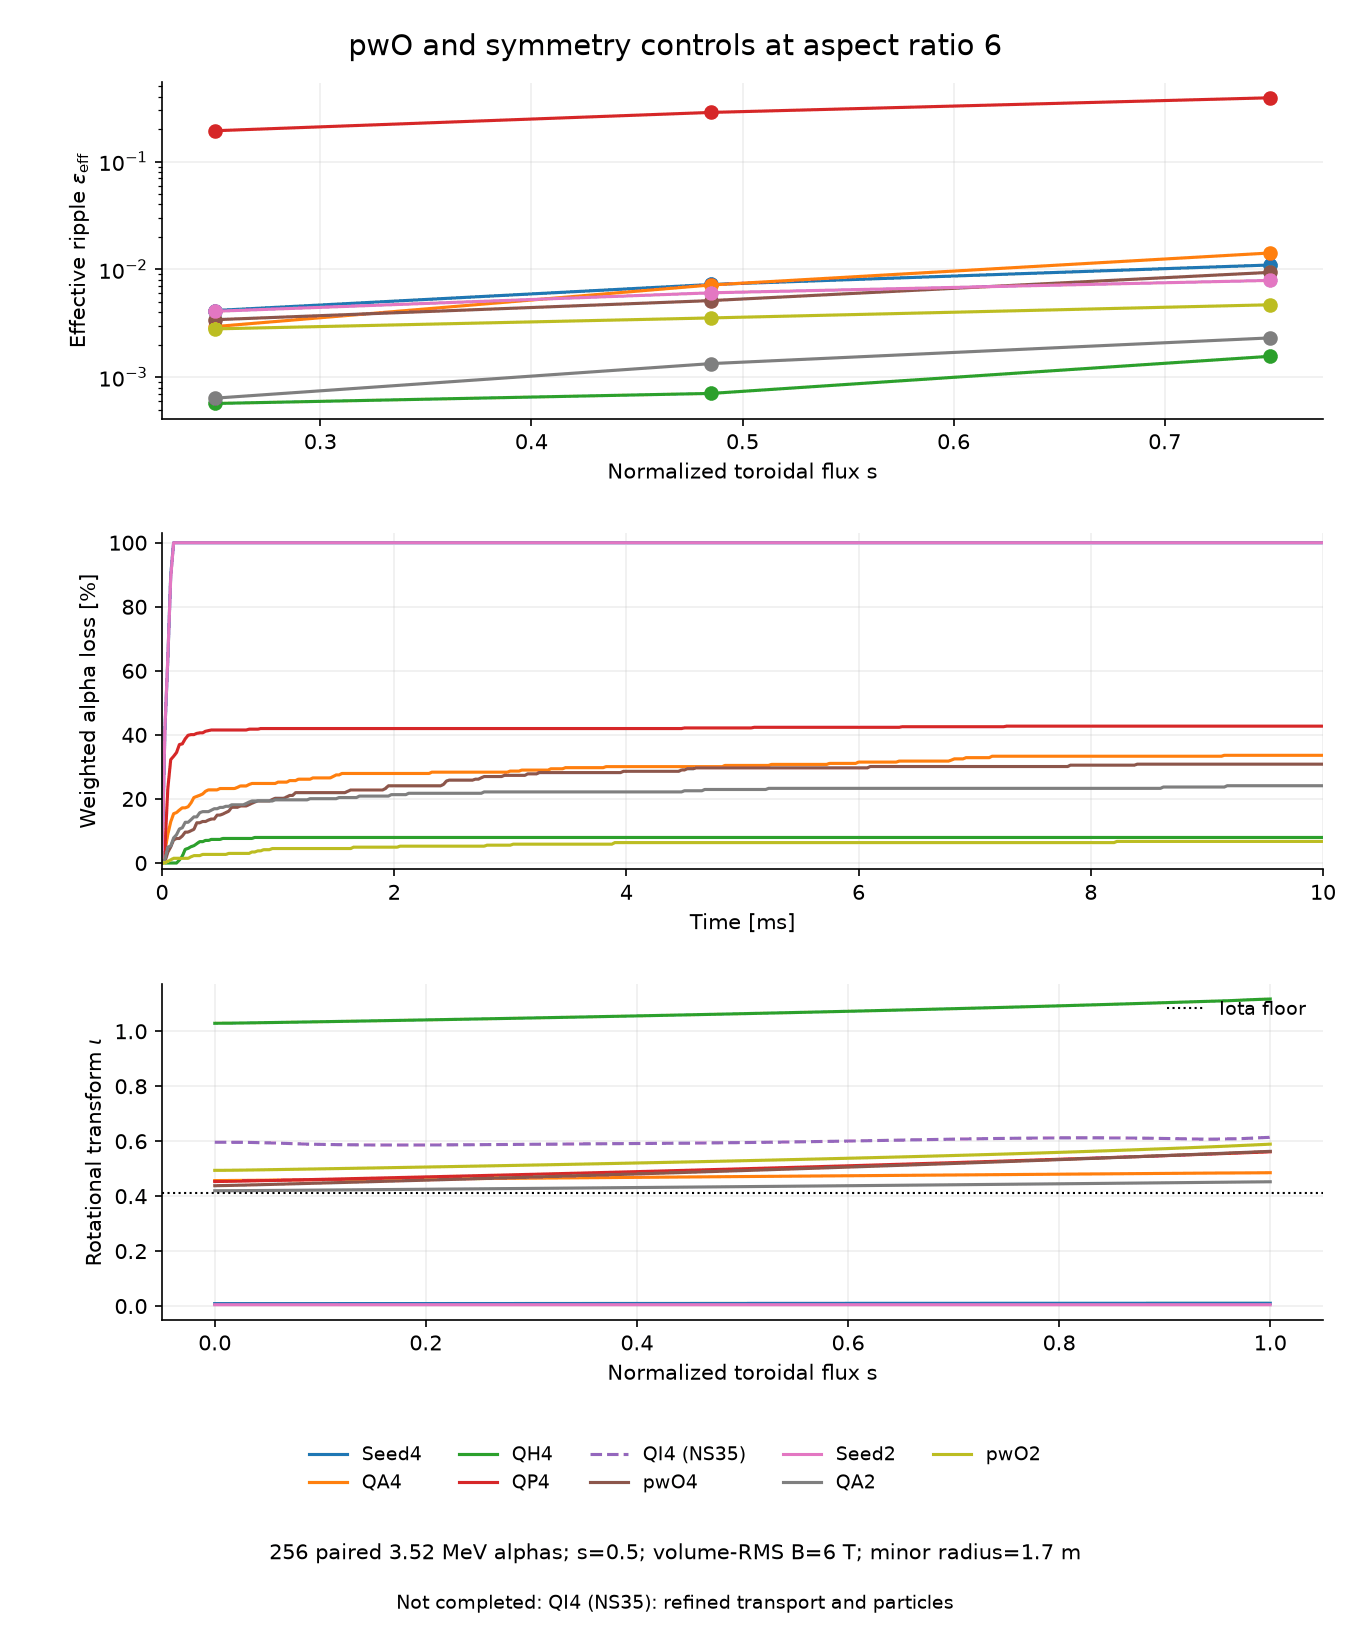
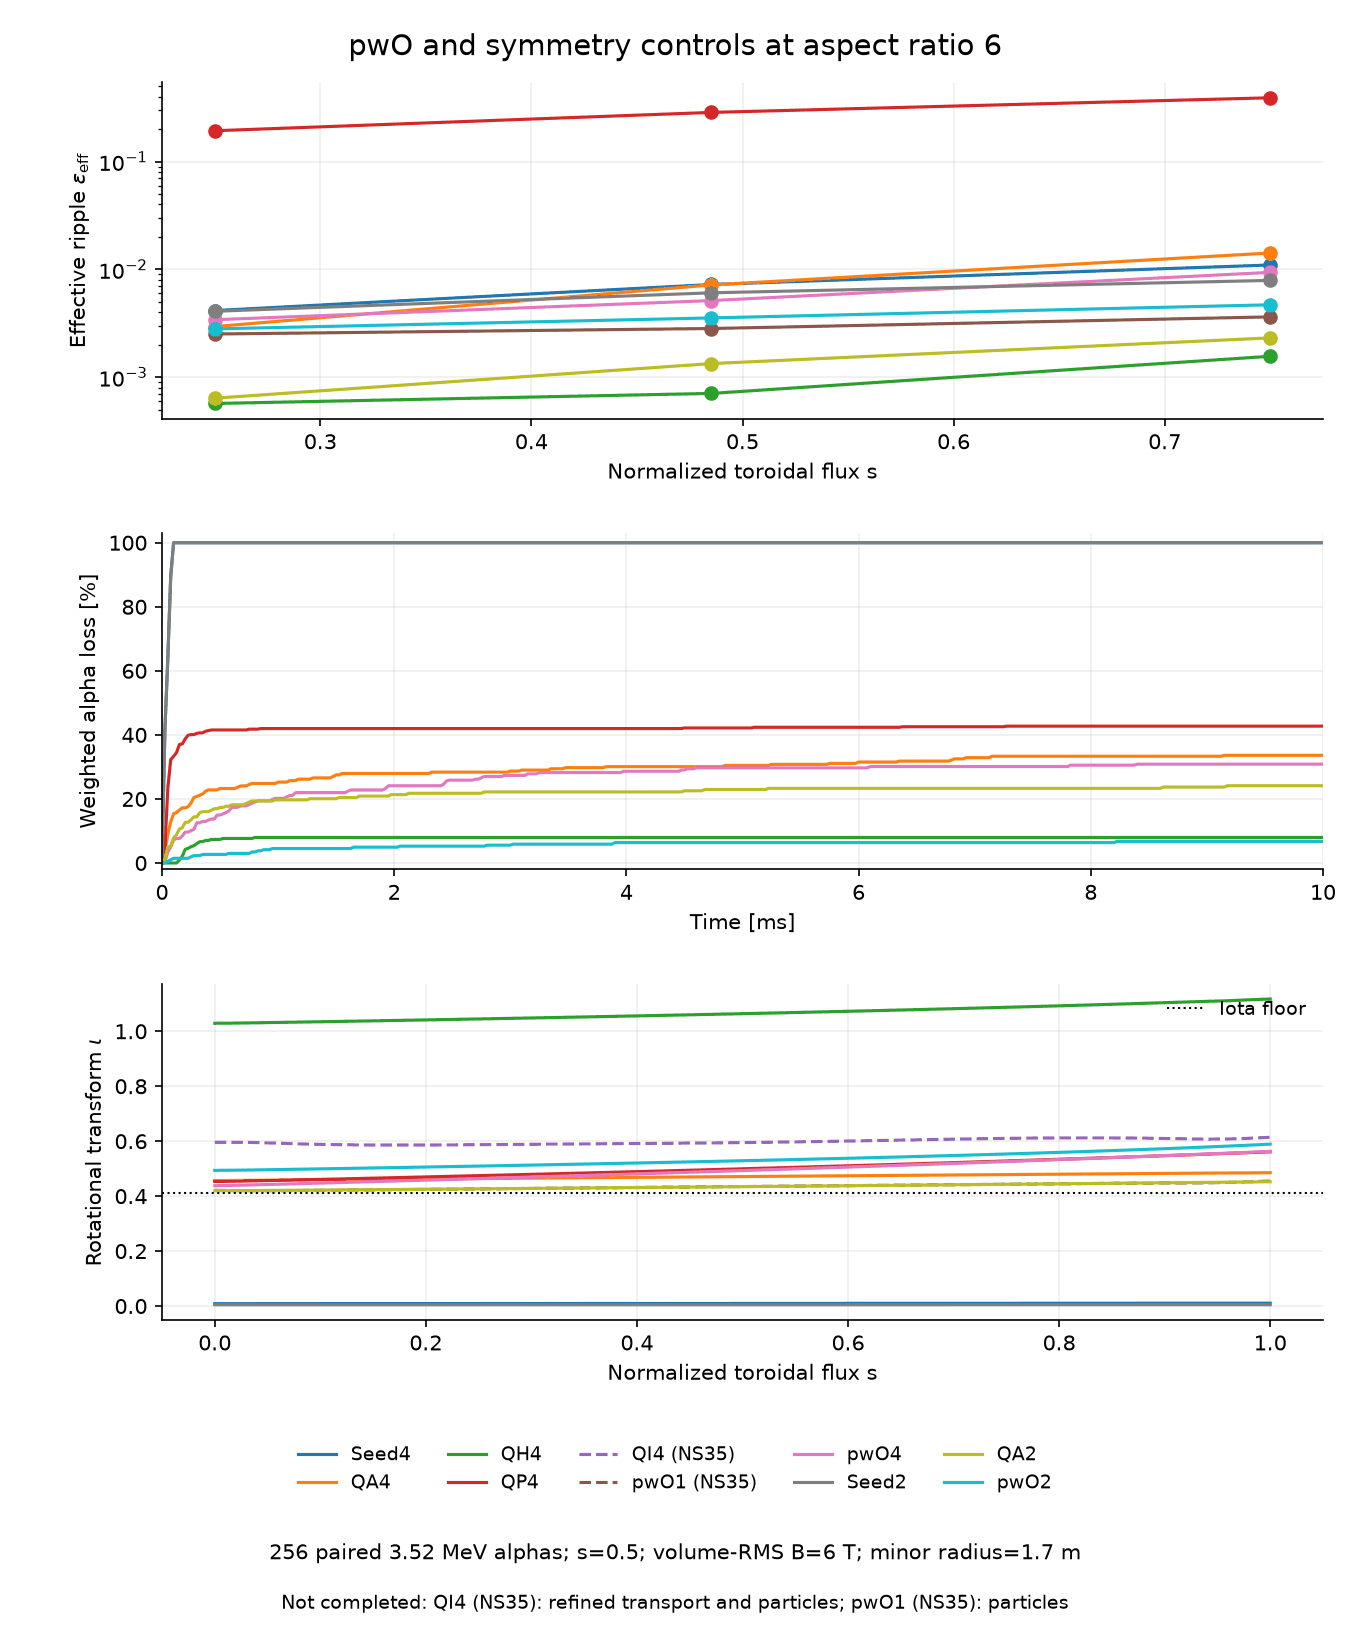
Record the one-period QA-to-pwO construction and transport backtracking

diff --git a/docs/_static/figures/sources/make_low_transport_figure.py b/docs/_static/figures/sources/make_low_transport_figure.py
@@ -138,12 +138,14 @@ def comparisons(root):
     from scipy.io import netcdf_file
 
     fig, axes = plt.subplots(3, 4, figsize=(14, 10), dpi=150, layout="constrained")
-    statuses = ("Targets missed", "NEO improved", "NEO worsened", "NEO improved")
+    statuses = ("QA to pwO: NEO improved", "NEO improved", "NEO worsened", "NEO improved")
     theta, phi = np.meshgrid(np.linspace(0, 2*np.pi, 81), np.linspace(0, 2*np.pi, 81), indexing="ij")
     for col, nfp in enumerate(range(1, 5)):
         folder = root.parent / "mapped" / f"mirror-nfp{nfp}" / "low_transport"
+        if nfp == 1:
+            folder = root.parent / "mapped/nfp1-qa2-full-20261031/backtrack"
         record = json.loads((folder / "summary.json").read_text())
-        selected = "selected_evaluation" in record
+        selected = nfp == 1 or "selected_evaluation" in record
         stem = "trial" if selected else "terminal"
         picture = folder / (f"{stem}_boundary3d.png" if selected else f"terminal/{stem}_boundary3d.png")
         axes[0, col].imshow(plt.imread(picture)); axes[0, col].axis("off")
@@ -157,21 +159,39 @@ def comparisons(root):
         axes[1, col].set(xlabel="VMEC toroidal angle", ylabel="VMEC poloidal angle",
                          title="Mid-radius |B| [T]")
         fig.colorbar(contour, ax=axes[1, col], shrink=.75)
-        cost = np.array([record["evaluations"][0]["cost"]]+[r["cost"] for r in record["iterations"]])
-        axes[2, col].semilogy(np.arange(len(cost)), cost/cost[0], color="#306d86")
-        axes[2, col].set(xlabel="Accepted iteration", ylabel="Total objective / initial",
-                         title="Optimization history")
+        if nfp == 1:
+            points = sorted([(0., 1., True)]+[(r["alpha"], r["physics"]["raw"]/record["initial_pwO"],
+                           r["accepted"]) for r in record["trials"]])
+            axes[2, col].plot([r[0] for r in points], [r[1] for r in points], color="gray")
+            for x, y, accepted in points:
+                axes[2, col].scatter(x, y, color="#306d86" if accepted else "#bc3939", zorder=3)
+            axes[2, col].set(xlabel="Fraction of proposed pwO step", ylabel="pwO variance / QA seed",
+                             title="NEO backtracking (red: rejected)")
+        else:
+            cost = np.array([record["evaluations"][0]["cost"]]+[r["cost"] for r in record["iterations"]])
+            axes[2, col].semilogy(np.arange(len(cost)), cost/cost[0], color="#306d86")
+            axes[2, col].set(xlabel="Accepted iteration", ylabel="Total objective / initial",
+                             title="Optimization history")
         axes[2, col].grid(alpha=.2)
     save(fig, OUT.with_name("readme_low_transport_nfp.webp"))
 
     data = json.loads((root / "summary.json").read_text())["cases"]
+    if "pwo1" not in data:
+        folder = root.parent / "mapped/nfp1-qa2-full-20261031/backtrack"
+        row = json.loads((folder / "summary.json").read_text())
+        with netcdf_file(folder / "wout_trial.nc", mmap=False) as f:
+            iota = f.variables["iotaf"].data.copy().tolist()
+        data["pwo1"] = dict(Q=row["accepted"]["Q"], actual_s=[.25, 16.5/34, .75],
+                           refined_equilibrium=dict(full_signed_iota=iota), coarse=True)
     fig, axes = plt.subplots(3, 1, figsize=(9, 11), dpi=150)
     fig.subplots_adjust(left=.12, right=.98, top=.95, bottom=.20, hspace=.34)
     handles, labels, missing = [], [], []
     for name, label in (("seed4", "Seed4"), ("QA", "QA4"), ("QH", "QH4"),
-            ("QP", "QP4"), ("QI", "QI4"), ("mapped4", "pwO4"),
+            ("QP", "QP4"), ("QI", "QI4"), ("pwo1", "pwO1"), ("mapped4", "pwO4"),
             ("seed2", "Seed2"), ("QA_nfp2", "QA2"), ("mapped2", "pwO2")):
         row = data.get(name, {})
+        if row.get("coarse"):
+            label += " (NS35)"
         iota = row.get("refined_equilibrium", {}).get("full_signed_iota")
         if iota is None:
             iota = json.loads((root / name / "coarse-iota.json").read_text())["iotaf"]

diff --git a/docs/reference/optimization.rst b/docs/reference/optimization.rst
@@ -681,6 +681,15 @@ calculation, then trace fresh particles to qualify a selected boundary.
 The README figure records such a comparison; running the example does not
 repeat its particle study.
 
+The one-period construction starts with the NFP2, mode-2 QA precursor.
+Representing the same physical boundary at NFP1 maps each toroidal index
+``n`` to ``2*n``, requiring boundary harmonics through n=4. An odd n=1
+perturbation breaks the two-period symmetry. Five pwO steps supply a
+direction; halving that step until NEO accepts retains a quarter step.
+It reduces pwO variance by 11.9% and mean Q by 65.6% relative to the
+near-circle seed, at A=6.007 and minimum signed iota=0.4198. This
+construction is not yet automated by changing ``NFP`` in the vacuum example.
+
 Continue the saved vacuum shape to finite pressure with::
 
    python examples/optimization/pwO_optimization_finite_beta.py

diff --git a/README.md b/README.md
@@ -298,10 +298,14 @@ volume-RMS field of 6 T and minor radius 1.7 m. Its β≈0.5% continuation lower
 
 | Field periods | Aspect ratio | Minimum ι | Transport result |
 |---|---:|---:|---|
-| 1 | 7.659 | 0.368 | Aspect and transform targets missed |
+| 1 | 6.007 | 0.420 | Coarse mean Q −65.6%; QA precursor |
 | 2 | 6.003 | 0.494 | Refined mean Q −52.6% |
 | 3 | 6.001 | 0.442 | Coarse mean Q +191%; rejected |
 | 4 | 6.001 | 0.438 | Refined mean Q −27.5% |
+
+The one-period construction uses a QA precursor, physical toroidal harmonics through n=4,
+and a NEO-screened pwO step. The direct mode-2 start still fails; independent refinement and
+particle checks are pending.
 
 ![Effective ripple, alpha losses and iota profiles compared with QA, QH, QP and the initial seeds; unfinished checks are marked](docs/_static/figures/readme_low_transport_comparison.webp)
 
